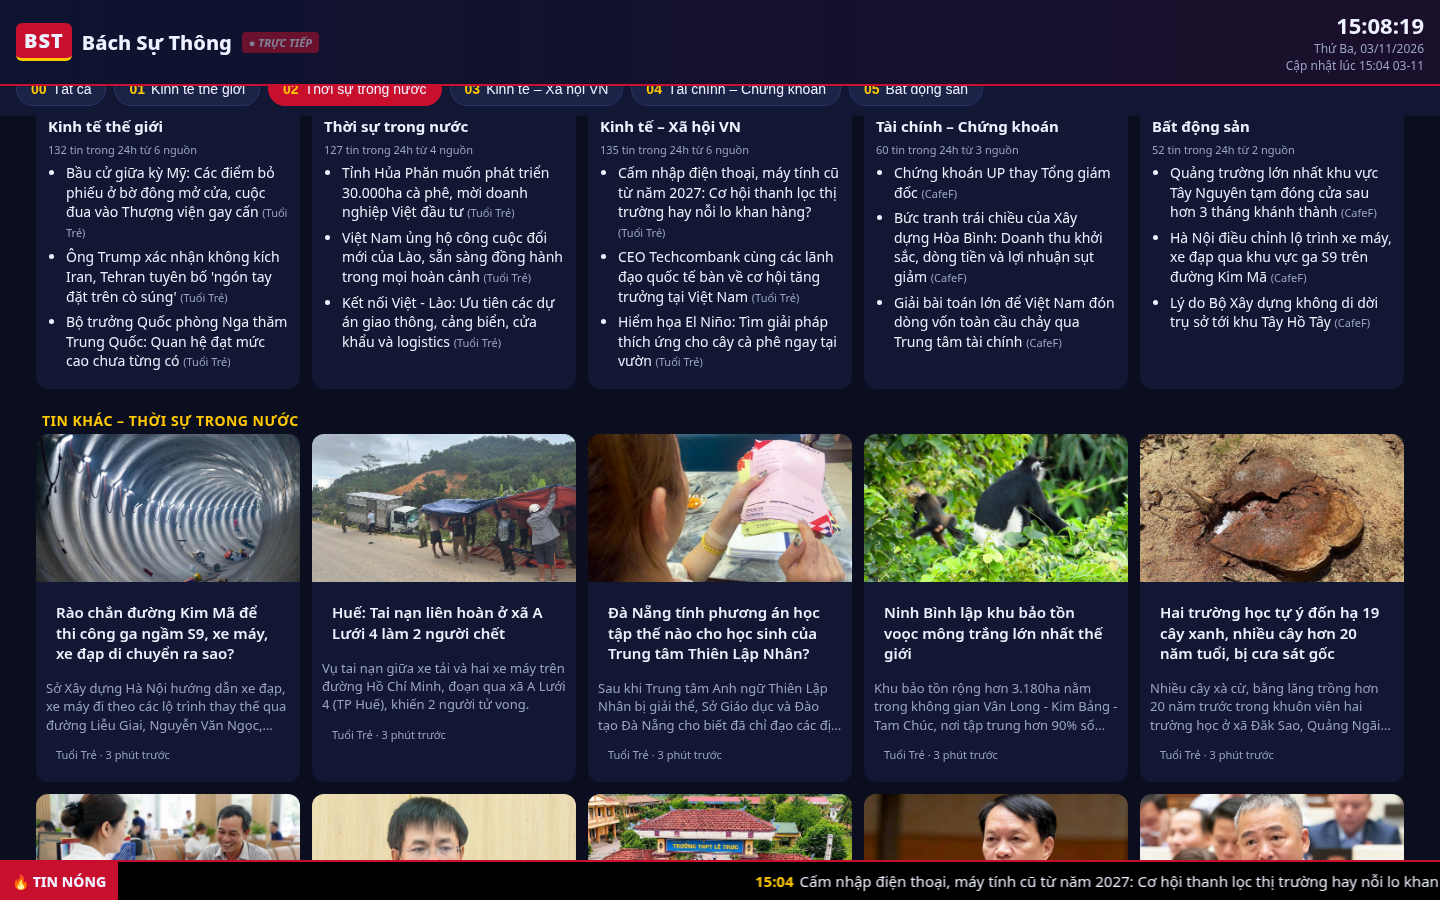
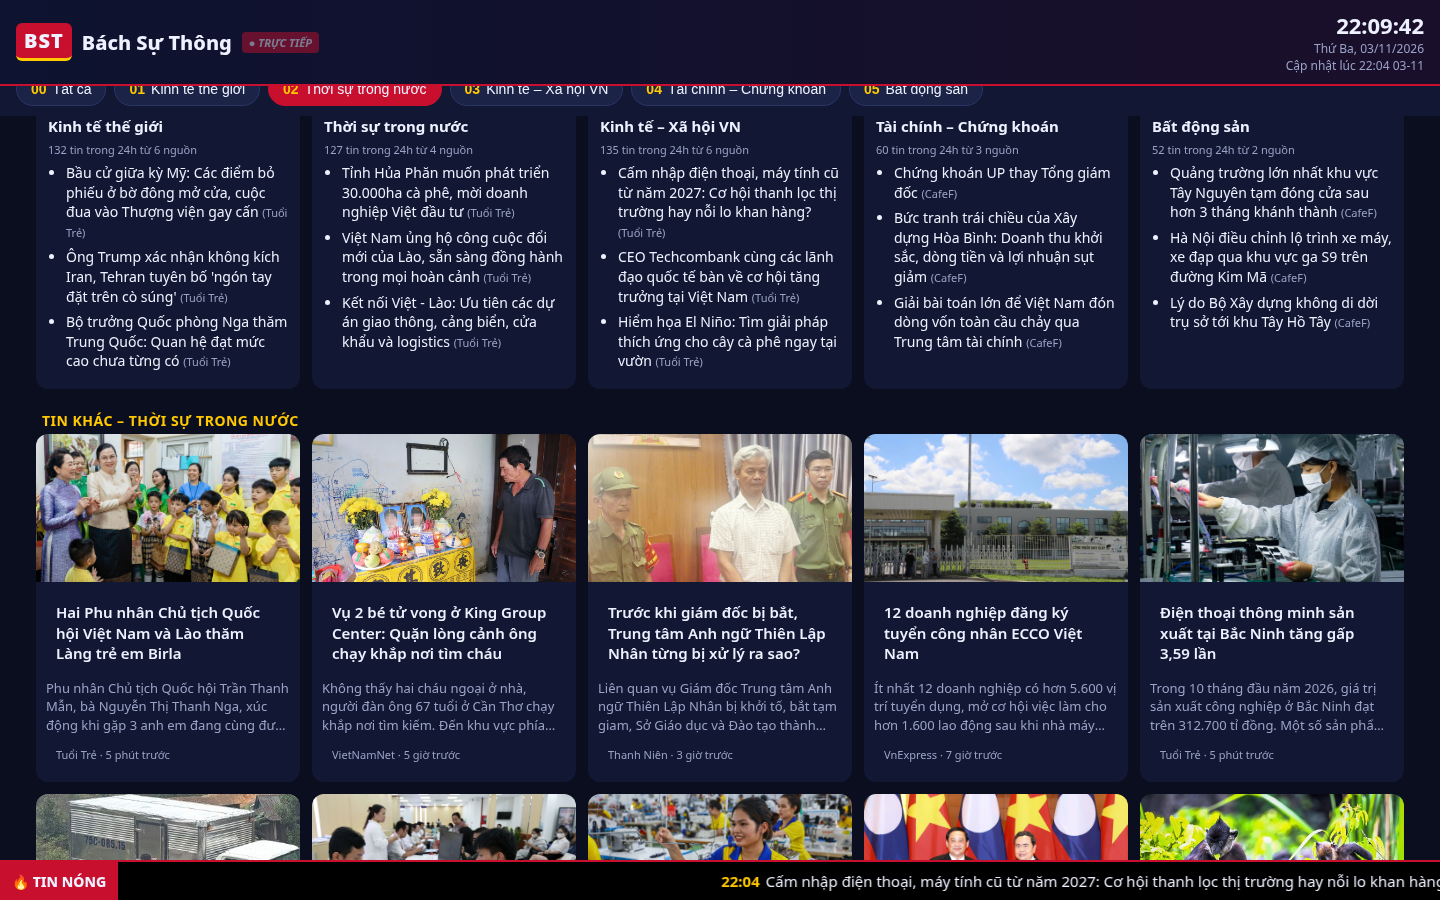
Trộn nguồn cho tóm tắt, tin nóng

Changed region(s): [[0.0, 0.4667, 1.0, 0.84], [0.0, 0.8711, 1.0, 0.9956]]

diff --git a/index.html b/index.html
@@ -107,9 +107,9 @@ const STOP=new Set("của và các cho với trong được những này một n
 function digest(){const day=Date.now()/1000-86400,T=D.items.filter(x=>x.time>day);
  const f={};T.forEach(x=>{const w=x.title.toLowerCase().replace(/[^\p{L}\p{N}\s]/gu," ").split(/\s+/).filter(Boolean);for(let i=0;i<w.length-1;i++){if(STOP.has(w[i])||STOP.has(w[i+1])||/^\d+$/.test(w[i]))continue;const k=w[i]+" "+w[i+1];f[k]=(f[k]||0)+1}});
  $("kw").innerHTML=Object.entries(f).sort((a,b)=>b[1]-a[1]).slice(0,14).map(([k,n])=>`<span>#${esc(k)} <b style="color:var(--y)">${n}</b></span>`).join("");
- $("digest").innerHTML=CH.slice(1).map(c=>{const L=T.filter(x=>x.channel==c[0]);if(!L.length)return"";const srcs=new Set(L.map(x=>x.source)).size;
+ $("digest").innerHTML=CH.slice(1).map(c=>{const L=mix(T.filter(x=>x.channel==c[0]));if(!L.length)return"";const srcs=new Set(L.map(x=>x.source)).size;
   return `<div class="dg"><h4>${c[1]}</h4><div class="meta">${L.length} tin trong 24h từ ${srcs} nguồn</div><ul>${L.slice(0,3).map(x=>`<li><a href="${esc(x.link)}" target="_blank" rel="noopener">${esc(x.title)}</a> <span class="meta">(${esc(x.source)})</span></li>`).join("")}</ul></div>`}).join("")}
-function ticker(){const L=D.items.slice(0,25);$("tk").innerHTML=L.map(x=>`<a href="${esc(x.link)}" target="_blank" rel="noopener"><b>${new Date(x.time*1000).toLocaleTimeString("vi-VN",{timeZone:TZ,hour:"2-digit",minute:"2-digit"})}</b>${esc(x.title)} <span class="meta">— ${esc(x.source)}</span></a>`).join("");$("tk").style.animationDuration=Math.max(60,L.length*9)+"s"}
+function ticker(){const L=mix(D.items.slice(0,120)).slice(0,25);$("tk").innerHTML=L.map(x=>`<a href="${esc(x.link)}" target="_blank" rel="noopener"><b>${new Date(x.time*1000).toLocaleTimeString("vi-VN",{timeZone:TZ,hour:"2-digit",minute:"2-digit"})}</b>${esc(x.title)} <span class="meta">— ${esc(x.source)}</span></a>`).join("");$("tk").style.animationDuration=Math.max(60,L.length*9)+"s"}
 async function load(first){try{const r=await fetch("data/news.json?t="+Date.now(),{cache:"no-store"});D=await r.json();
  $("upd").textContent="Cập nhật lúc "+new Date(D.updated*1000).toLocaleString("vi-VN",{timeZone:TZ,hour:"2-digit",minute:"2-digit",day:"2-digit",month:"2-digit"});
  $("srcs").textContent="Nguồn: "+[...new Set(D.sources_ok.map(s=>s[0]))].join(", ")+".";
